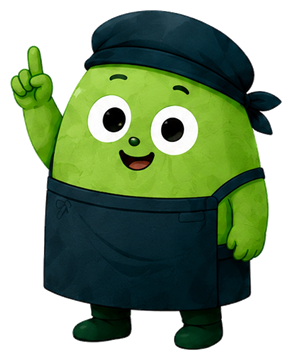
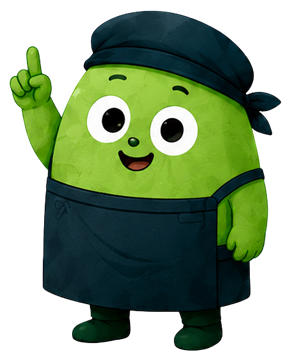
Replace 飲食/建設 characters with true-transparent versions

diff --git a/shindan.html b/shindan.html
@@ -301,8 +301,8 @@
       <span class="chip">✓ しつこい営業はしません</span>
     </div>
     <!-- ヒーロー左右の覗きキャラ（広い画面のみ）：哀＝悩み共感／頼れる＝おまかせ -->
-    <div class="hero-peek left"><span class="pb">違いがわからない…</span><img class="m-img" src="assets/chars/inshoku_sad.png?v=3" alt=""></div>
-    <div class="hero-peek right"><span class="pb">制度はおまかせ！</span><img class="m-img" src="assets/chars/megane_fun.png?v=3" alt=""></div>
+    <div class="hero-peek left"><span class="pb">違いがわからない…</span><img class="m-img" src="assets/chars/inshoku_sad.png?v=4" alt=""></div>
+    <div class="hero-peek right"><span class="pb">制度はおまかせ！</span><img class="m-img" src="assets/chars/megane_fun.png?v=4" alt=""></div>
   </div>
 
   <div class="diag" id="diag">
@@ -313,7 +313,7 @@
       <h2>あなたの会社に合う<br>外国人採用のかたちを診断します</h2>
       <p class="desc">外国人採用には「特定技能」「技人国（技術・人文知識・国際業務）」など複数のルートがあり、業種や求める働き方で最適解が変わります。さらに2026年の制度改正で、企業の<b>カテゴリー区分</b>によって手続きの難易度も変わりました。まずは3問でチェックしましょう。</p>
       <!-- 案内役（喜）：診断スタートへ誘導 -->
-      <div class="guide"><div class="gch"><img class="m-img" src="assets/chars/megane_happy.png?v=3" alt="案内役キャラクター"></div><div class="bub">外国人採用、何から始める？<br><b>まず30秒でチェック！</b></div></div>
+      <div class="guide"><div class="gch"><img class="m-img" src="assets/chars/megane_happy.png?v=4" alt="案内役キャラクター"></div><div class="bub">外国人採用、何から始める？<br><b>まず30秒でチェック！</b></div></div>
       <button class="btn btn-primary btn-full" onclick="start()">診断をはじめる（<span class="hl">無料</span>・30秒）</button>
     </div>
 
@@ -361,7 +361,7 @@
     <!-- 結果 -->
     <div class="screen" id="s-result">
       <!-- 祝福（楽）：結果が出た喜びを演出 -->
-      <div class="guide" style="margin-top:0;"><div class="gch"><img class="m-img" src="assets/chars/kensetsu_fun.png?v=3" alt=""></div><div class="bub"><b>ぴったりの採用ルート</b>が見つかりました！</div></div>
+      <div class="guide" style="margin-top:0;"><div class="gch"><img class="m-img" src="assets/chars/kensetsu_fun.png?v=4" alt=""></div><div class="bub"><b>ぴったりの採用ルート</b>が見つかりました！</div></div>
       <div id="r-badge"></div>
       <p class="rlead">DIAGNOSIS RESULT ／ 御社へのおすすめ</p>
       <h2 class="rtitle" id="r-title"></h2>
@@ -370,7 +370,7 @@
       <div id="r-route"></div>
 
       <!-- 「こういう人材が紹介できます」＝求職者イメージ（兼松様ご要望） -->
-      <div class="sectit">いま、こういう人材を紹介できます <img class="sch m-img" src="assets/chars/inshoku_happy.png?v=3" alt=""></div>
+      <div class="sectit">いま、こういう人材を紹介できます <img class="sch m-img" src="assets/chars/inshoku_happy.png?v=4" alt=""></div>
       <div class="talent" id="r-talent"></div>
       <div class="pool" id="r-pool"></div>
       <p class="tnote">※ 上記は登録人材のイメージです。実際のご紹介可能な人材は、ご相談時に最新の情報をご案内します。</p>
@@ -407,7 +407,7 @@
 
     <!-- サンキュー -->
     <div class="screen thanks" id="s-thanks">
-      <div class="celebrate"><img src="assets/chars/megane_fun.png?v=3" alt=""><img src="assets/chars/kensetsu_happy.png?v=3" alt=""></div>
+      <div class="celebrate"><img src="assets/chars/megane_fun.png?v=4" alt=""><img src="assets/chars/kensetsu_happy.png?v=4" alt=""></div>
       <div class="check"><span></span></div>
       <h2>お申し込みありがとうございます</h2>
       <p id="t-msg">担当より1営業日以内に、ご記入の連絡先へご連絡いたします。</p>
@@ -421,9 +421,9 @@
 
   <div class="footer">
     <div class="foot-chars">
-      <img src="assets/chars/kensetsu_happy.png?v=3" alt="">
-      <img src="assets/chars/megane_happy.png?v=3" alt="">
-      <img src="assets/chars/inshoku_fun.png?v=3" alt="">
+      <img src="assets/chars/kensetsu_happy.png?v=4" alt="">
+      <img src="assets/chars/megane_happy.png?v=4" alt="">
+      <img src="assets/chars/inshoku_fun.png?v=4" alt="">
     </div>
     <svg class="hk-logo" viewBox="0 0 202 61" xmlns="http://www.w3.org/2000/svg" role="img" aria-label="hitokiwa"><g fill="currentColor"><path d="M7.071,42.924C4.413,33.11,3.92,20.5,9.334,0-10,34.234,5.283,50.567,14.3,60.628c-7.15-18.979,5.994-32.7,10.437-13.36C22.669,26.69,7.8,30.438,7.071,42.924"/><path d="M42.037,125.63a3.593,3.593,0,1,1-3.593-3.593,3.593,3.593,0,0,1,3.593,3.593" transform="translate(-27.808 -97.374)"/><path d="M185.779,129.319a6.683,6.683,0,0,0-2.468-1.737,8.929,8.929,0,0,0-3.439-.612,7.956,7.956,0,0,0-2.23.307,8.913,8.913,0,0,0-1.882.78,7.509,7.509,0,0,0-1.271.893V116.635a.687.687,0,0,0-.687-.687h-3.115a.687.687,0,0,0-.687.687v30.191a.687.687,0,0,0,.687.687H173.8a.687.687,0,0,0,.687-.687V137.72a11.034,11.034,0,0,1,.318-2.744,5.953,5.953,0,0,1,.928-2.043,3.919,3.919,0,0,1,1.535-1.26,5.432,5.432,0,0,1,2.322-.454,3.147,3.147,0,0,1,2.689,1.088,5.352,5.352,0,0,1,.9,3.3v11.222a.687.687,0,0,0,.687.687h3.115a.687.687,0,0,0,.687-.687V135.284a11.6,11.6,0,0,0-.447-3.29,7.029,7.029,0,0,0-1.441-2.675" transform="translate(-135.644 -92.516)"/><path d="M296.464,125.433a2.842,2.842,0,0,0-2.111.888,2.963,2.963,0,1,0,4.221,0,2.84,2.84,0,0,0-2.11-.887" transform="translate(-234.186 -100.084)"/><path d="M297.746,192.92h3.115a.687.687,0,0,0,.687-.687v-18.69a.687.687,0,0,0-.687-.687h-3.115a.687.687,0,0,0-.687.687v18.69a.687.687,0,0,0,.687.687" transform="translate(-237.025 -137.924)"/><path d="M359.774,165.244a5.19,5.19,0,0,1-1.2.423,5.8,5.8,0,0,1-1.249.143,2.412,2.412,0,0,1-1.242-.24,1.462,1.462,0,0,1-.576-.629,2.851,2.851,0,0,1-.252-1.1c-.026-.5-.039-1.059-.039-1.661V153.87a.343.343,0,0,1,.344-.344h4.481a.687.687,0,0,0,.687-.687V150.2a.687.687,0,0,0-.687-.687H355.56a.344.344,0,0,1-.344-.344v-4.281a.687.687,0,0,0-.686-.687h-3.115a.687.687,0,0,0-.687.687v4.281a.344.344,0,0,1-.344.344h-3.043a.687.687,0,0,0-.687.687v2.636a.687.687,0,0,0,.687.687h3.043a.343.343,0,0,1,.344.344V163.1a18.183,18.183,0,0,0,.187,2.719,5.3,5.3,0,0,0,.855,2.267,4.319,4.319,0,0,0,1.844,1.473,7.332,7.332,0,0,0,2.952.5,12.324,12.324,0,0,0,1.968-.169,7.833,7.833,0,0,0,1.948-.571.687.687,0,0,0,.4-.656l-.12-2.836a.687.687,0,0,0-.993-.585Z" transform="translate(-276.598 -115.063)"/><path d="M457.233,171.048a9.952,9.952,0,0,0-3.387-2.167,12.135,12.135,0,0,0-8.487,0,9.947,9.947,0,0,0-3.387,2.167,10.159,10.159,0,0,0-2.227,3.317,11.566,11.566,0,0,0,0,8.521,10.159,10.159,0,0,0,2.227,3.318,9.938,9.938,0,0,0,3.387,2.167,12.132,12.132,0,0,0,8.487,0,9.945,9.945,0,0,0,3.387-2.166,10.177,10.177,0,0,0,2.228-3.318,11.577,11.577,0,0,0,0-8.521,10.18,10.18,0,0,0-2.228-3.317m-13.572,7.577a7.268,7.268,0,0,1,.418-2.5,5.624,5.624,0,0,1,3.067-3.281,6.526,6.526,0,0,1,4.915,0,5.623,5.623,0,0,1,3.067,3.281,7.694,7.694,0,0,1,0,5,5.623,5.623,0,0,1-3.068,3.282,6.523,6.523,0,0,1-4.915,0,5.623,5.623,0,0,1-3.067-3.281,7.269,7.269,0,0,1-.418-2.5" transform="translate(-350.226 -134.14)"/><path d="M594.193,127.449H589.76a.687.687,0,0,0-.478.193l-6.759,6.537a.343.343,0,0,1-.582-.247v-17.3a.687.687,0,0,0-.687-.687h-3.115a.687.687,0,0,0-.687.687v30.191a.687.687,0,0,0,.687.687h3.115a.687.687,0,0,0,.687-.687V139.6a.343.343,0,0,1,.593-.236l7.485,7.937a.687.687,0,0,0,.5.215h4.592a.687.687,0,0,0,.492-1.167l-9.455-9.683,8.516-8.027a.687.687,0,0,0-.471-1.187" transform="translate(-460.752 -92.516)"/><path d="M694.131,192.92h3.115a.687.687,0,0,0,.687-.687v-18.69a.687.687,0,0,0-.687-.687h-3.115a.687.687,0,0,0-.687.687v18.69a.687.687,0,0,0,.687.687" transform="translate(-553.303 -137.924)"/><path d="M692.849,125.433a2.843,2.843,0,0,0-2.111.888,2.964,2.964,0,1,0,4.221,0,2.839,2.839,0,0,0-2.11-.887" transform="translate(-550.464 -100.084)"/><path d="M764.569,184.757l-3.907-11.435a.686.686,0,0,0-.65-.465h-3.275a.687.687,0,0,0-.651.468l-3.837,11.418a.343.343,0,0,1-.655-.012l-3.383-11.383a.687.687,0,0,0-.658-.491h-3.434a.687.687,0,0,0-.653.9l6.07,18.69a.687.687,0,0,0,.653.475h3.194a.687.687,0,0,0,.653-.473l3.829-11.681a.343.343,0,0,1,.648-.012l4.329,11.717a.687.687,0,0,0,.645.449h3.075a.687.687,0,0,0,.654-.476l6.03-18.69a.687.687,0,0,0-.654-.9h-3.355a.687.687,0,0,0-.659.493l-3.355,11.393a.344.344,0,0,1-.655.014" transform="translate(-593.188 -137.924)"/><path d="M929.73,186.329c-.051-.542-.077-1.078-.077-1.593v-8.027c0-2.829-.68-4.99-2.023-6.421s-3.538-2.173-6.491-2.173a12.722,12.722,0,0,0-4.242.738,9.516,9.516,0,0,0-3.678,2.345h0a.687.687,0,0,0,0,.955l1.957,2.037a.687.687,0,0,0,.963.027h0a6.487,6.487,0,0,1,2.331-1.391,8.489,8.489,0,0,1,2.753-.462,4.479,4.479,0,0,1,2.968.874,2.894,2.894,0,0,1,.954,2.042.348.348,0,0,1-.343.383h-.145c-1.154,0-2.442.054-3.827.161a15.4,15.4,0,0,0-4.013.837,7.98,7.98,0,0,0-3.251,2.141,5.886,5.886,0,0,0-1.376,4.1,5.663,5.663,0,0,0,.641,2.721,5.916,5.916,0,0,0,1.692,1.963,7.425,7.425,0,0,0,2.418,1.167,10.5,10.5,0,0,0,2.884.386,7.784,7.784,0,0,0,4.046-1.016,8.514,8.514,0,0,0,1.049-.737.341.341,0,0,1,.557.2q.045.286.111.551h0a.686.686,0,0,0,.666.52h3a.687.687,0,0,0,.677-.8c-.077-.466-.142-.98-.193-1.529m-4.909-6.657a.344.344,0,0,1,.344.344v.144a6.617,6.617,0,0,1-.36,1.972,4.584,4.584,0,0,1-.9,1.547,4.328,4.328,0,0,1-1.468,1.05,5.08,5.08,0,0,1-2.094.4,4.778,4.778,0,0,1-2.571-.634,2.059,2.059,0,0,1-.855-1.913,2.168,2.168,0,0,1,1.366-2.136,10.586,10.586,0,0,1,4.457-.771Z" transform="translate(-727.838 -134.14)"/></g></svg>
     <div>外国人材の採用から定着まで｜特定技能・技人国・カテゴリー対策のご相談はお気軽に</div>
